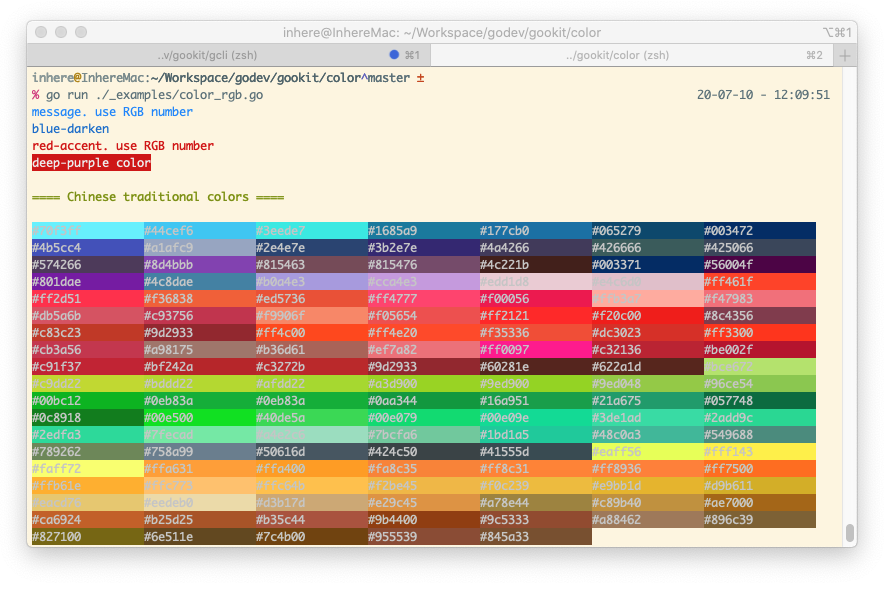
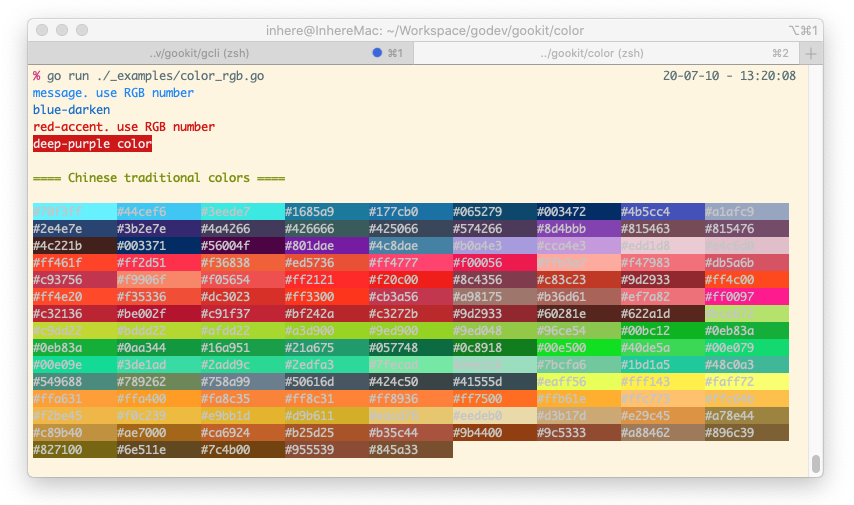
update readme

diff --git a/_examples/color_rgb.go b/_examples/color_rgb.go
@@ -19,8 +19,8 @@ func main() {
 	index := 1
 	for _, txt := range chinaColors {
 		nodes := strings.Split(txt, " ")
-		color.HEXStyle("ccc", nodes[1]).Printf("%-16s", nodes[1])
-		if index%7 == 0 {
+		color.HEXStyle("ccc", nodes[1]).Printf("%-12s", nodes[1])
+		if index%9 == 0 {
 			fmt.Println()
 		}
 

diff --git a/README.md b/README.md
@@ -313,11 +313,11 @@ Run demo: `go run ./_examples/color256.go`
 
 ## Use RGB color
 
-> RGB colors support Windows CMD, PowerShell environment after `v1.2.4`
+> RGB colors support Windows `CMD`, `PowerShell` environment after `v1.2.4`
 
 **Preview:**
 
-Run demo: `Run demo: go run ./_examples/color_rgb.go`
+> Run demo: `Run demo: go run ./_examples/color_rgb.go`
 
 ![color-rgb](_examples/images/color-rgb.png)
 

diff --git a/README.zh-CN.md b/README.zh-CN.md
@@ -288,7 +288,13 @@ s.Printf("format %s", "message")
 
 ## RGB色彩使用
 
-> RGB色彩在 `v1.2.4` 后支持Windows CMD,PowerShell 环境
+> RGB色彩在 `v1.2.4` 后支持 Windows `CMD`, `PowerShell` 环境
+
+**效果预览:**
+
+> 运行 demo: `Run demo: go run ./_examples/color_rgb.go`
+
+![color-rgb](_examples/images/color-rgb.png)
 
 代码示例：
 
